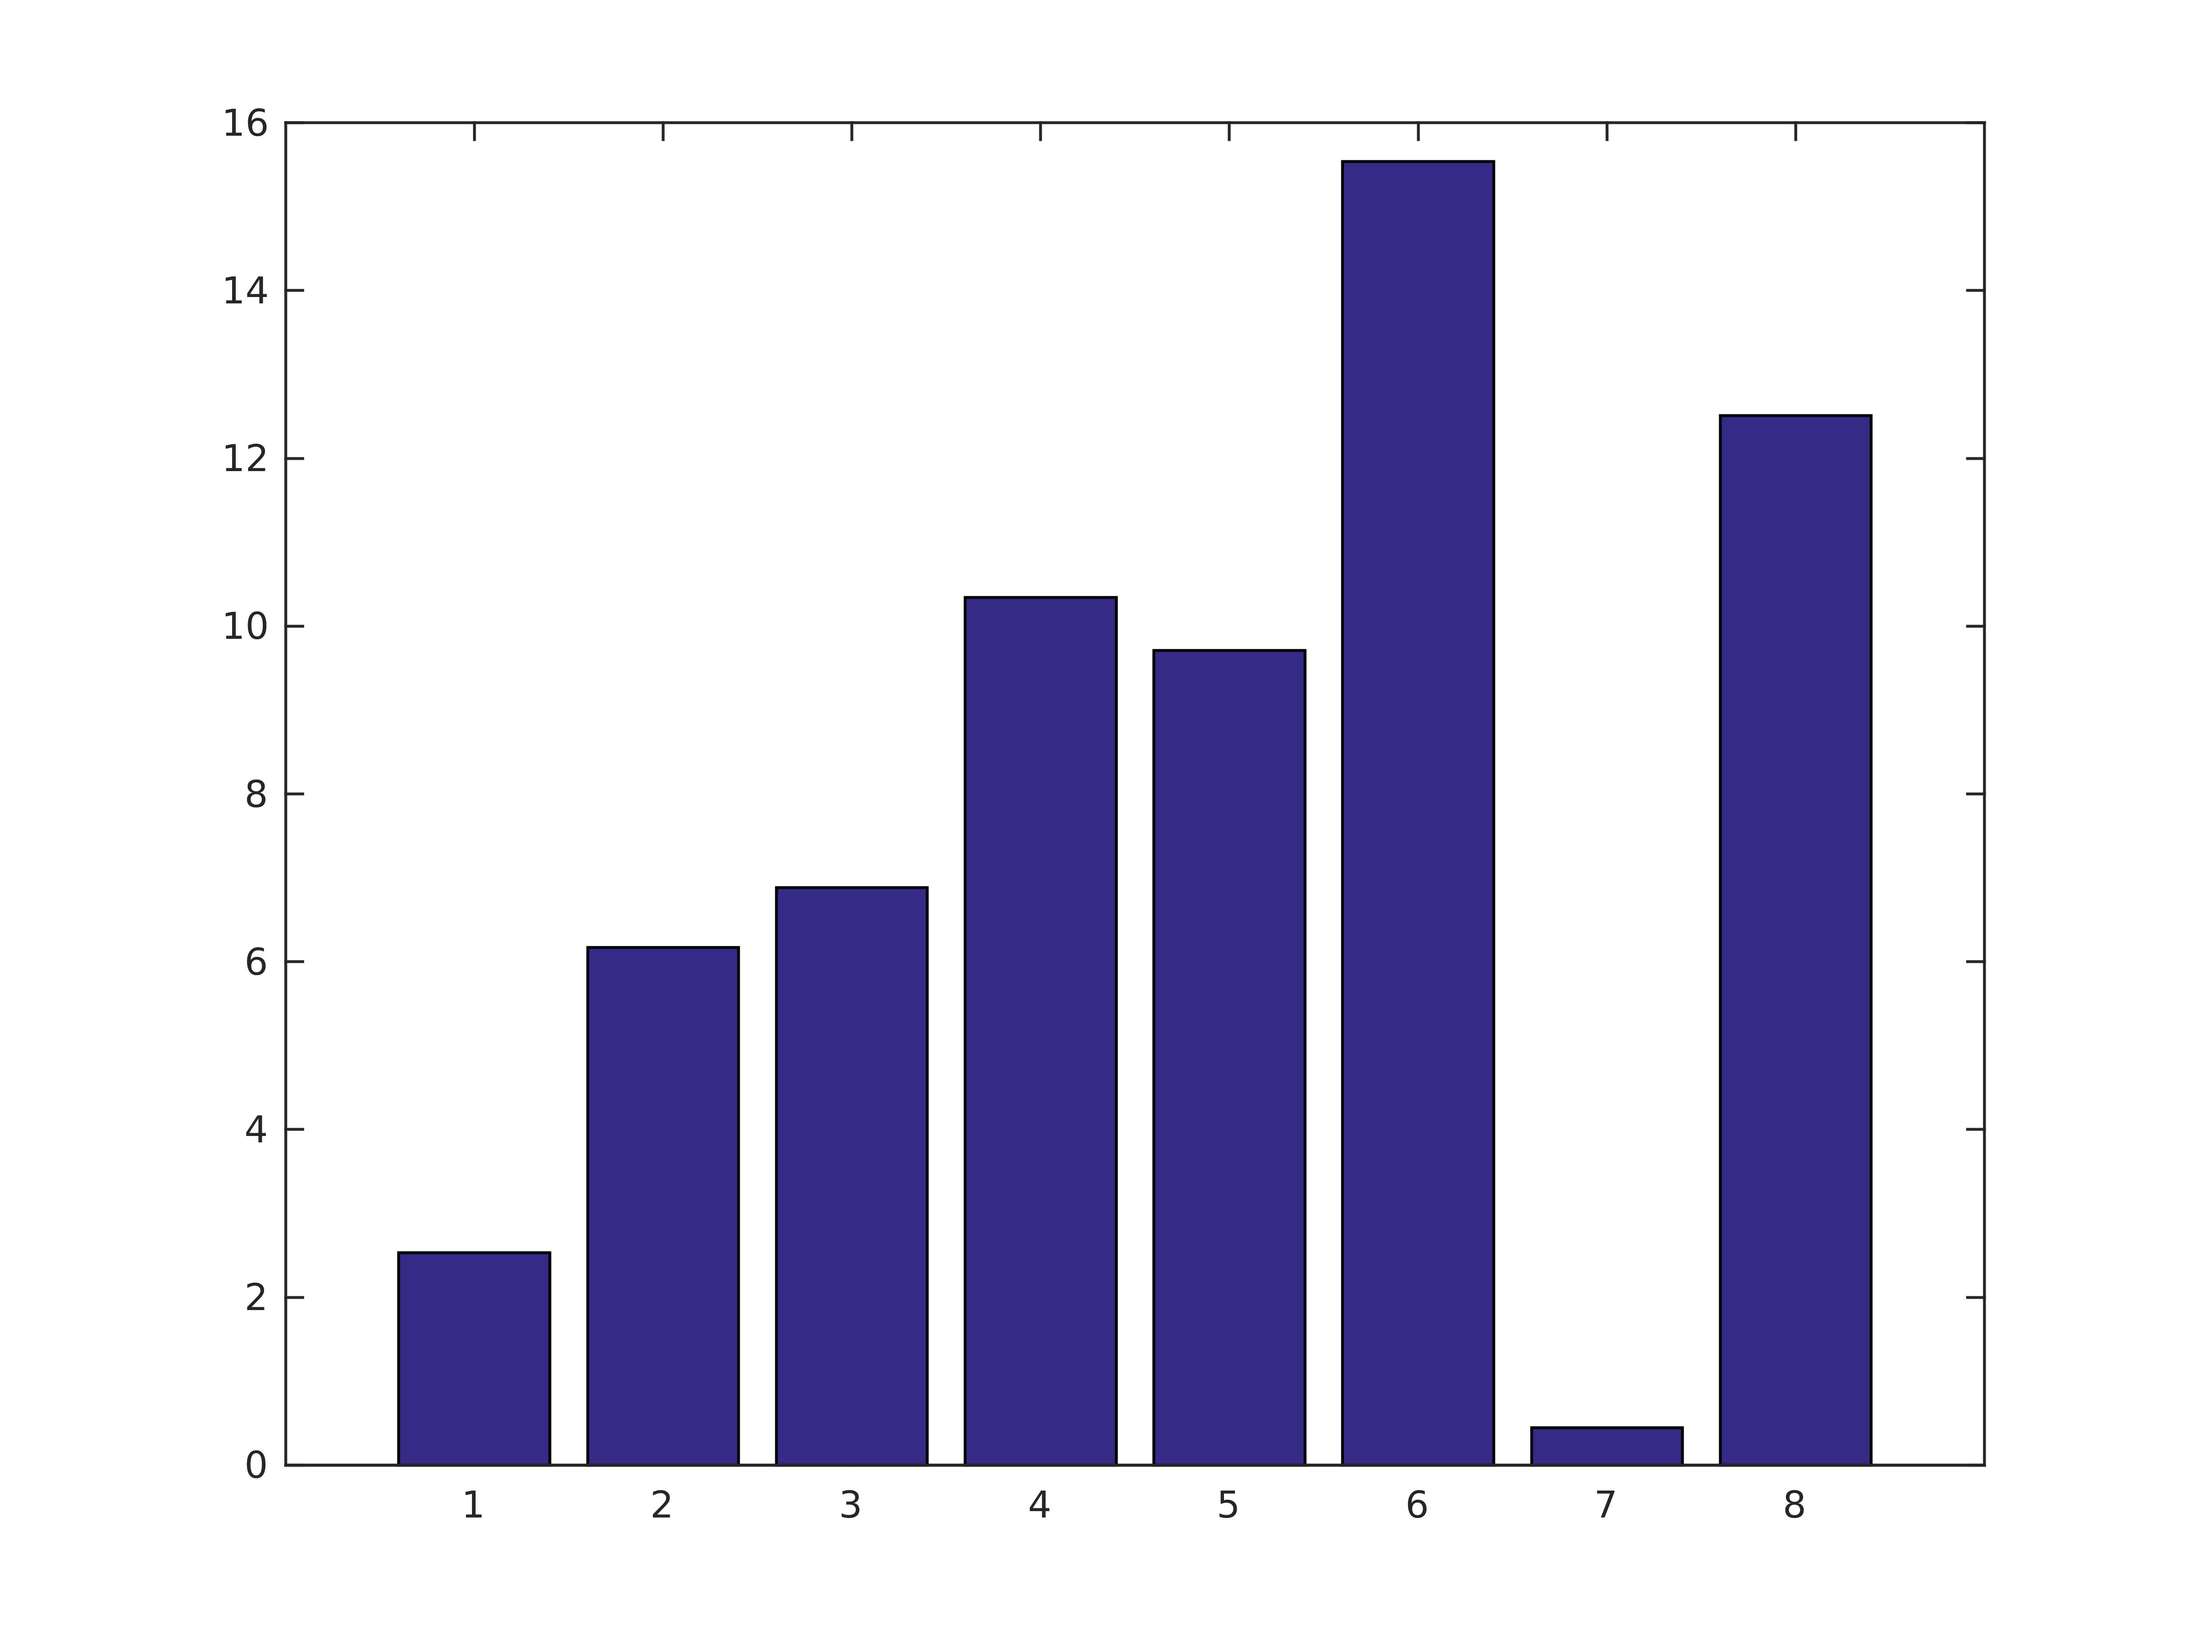
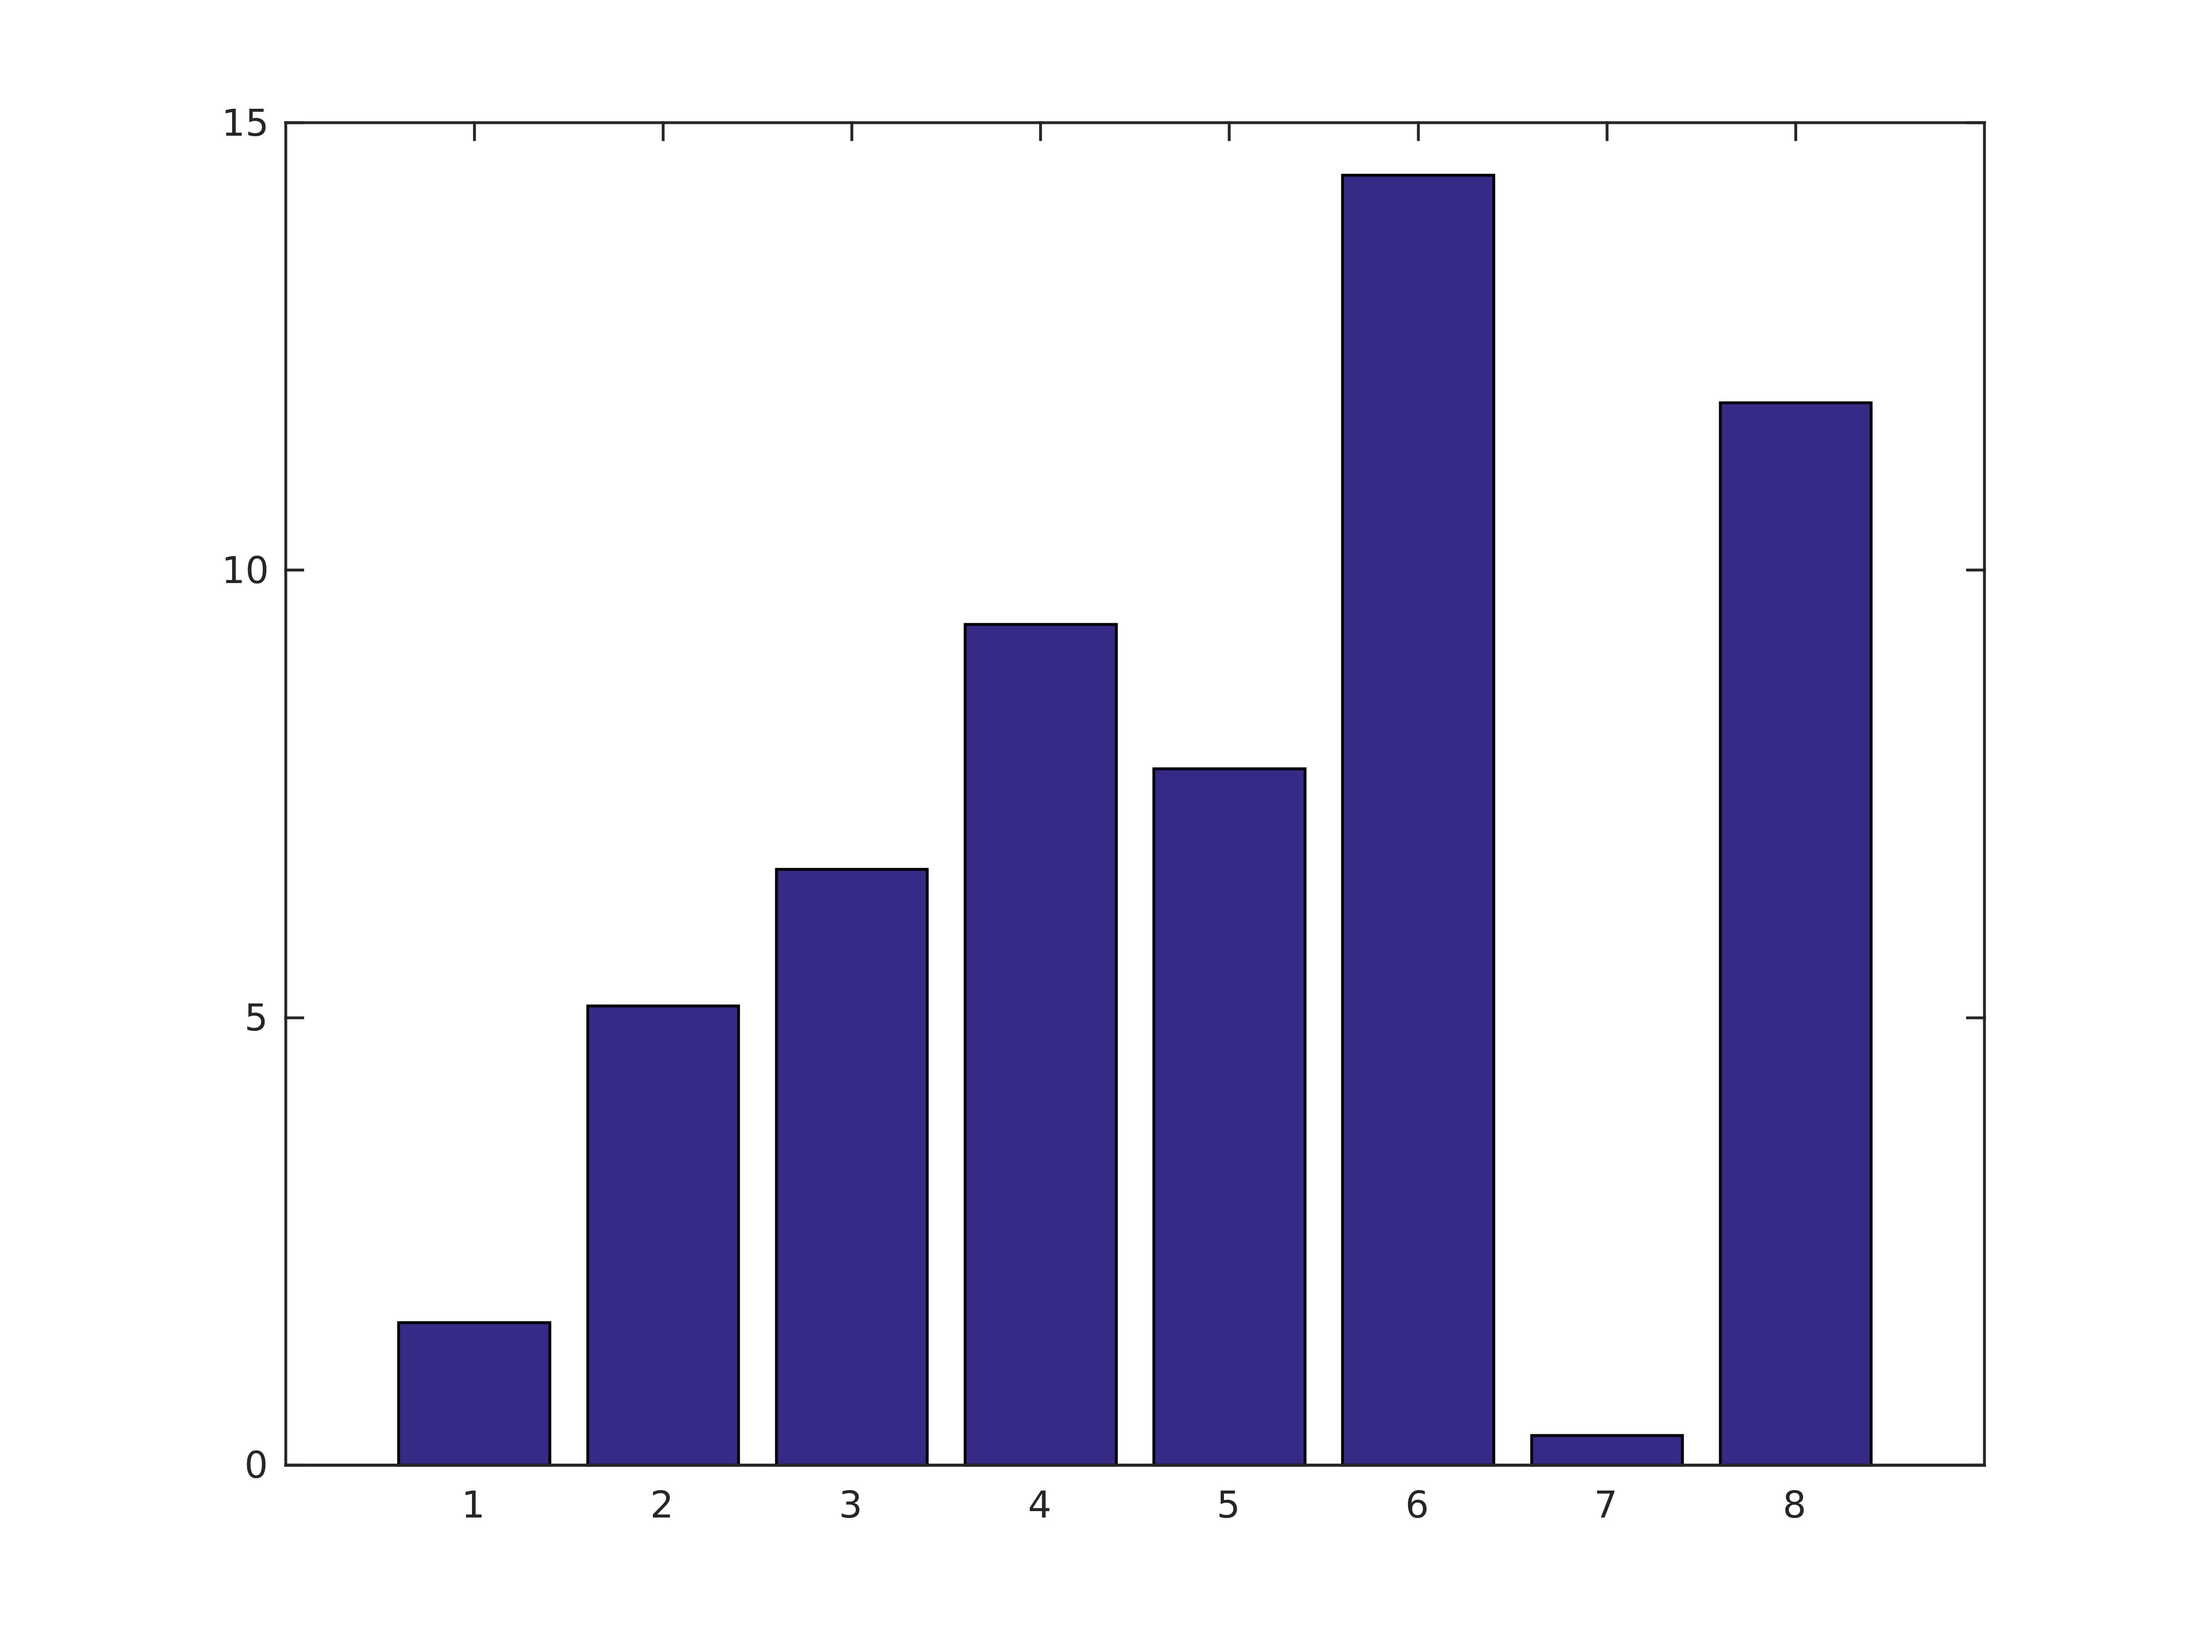
Correction in refractory time
The last version wasn't implemented with the refractory time accumulator.
New graphs were ploted.

diff --git a/rede_GL.cpp b/rede_GL.cpp
@@ -287,22 +287,30 @@ void runsim(double W, double g, double seed) {
 
 			n[j].syn_input[ind] = 0;
 			
-			if(n[j].v <= n[j].vth) {
-				prob = 0;
-			} else if(n[j].v > n[j].vth && n[j].v < n[j].vs) {
+
+			if(n[j].v >= n[j].vs) {
+				n[j].tdisp.push_back(i);
+				n[j].v = vr;
+				n[j].acum_ref = 0;
+
+				/* Adding synaptic inputs considering time delays between each pair of neurons connected*/
+				for (unsigned int p = 0; p < n[j].post.size(); p++){
+				    ind_postlist = n[j].post[p];
+				    n[ind_postlist].syn_input[(ind + n[j].delay[p])%(buffersize)]+=n[j].w[p];
+				}	
+			}else if(n[j].v > n[j].vth && n[j].v < n[j].vs) {
 				prob = pow(n[j].gamma*(n[j].v-n[j].vth), n[j].r) + n[j].delta;
-			} else if(n[j].v >= n[j].vs) {
-				prob = 1;
-			}
-			
-			if(randun()  < prob) {
-			    n[j].tdisp.push_back(i);
-			    n[j].v = vr;
-			    /* Adding synaptic inputs considering time delays between each pair of neurons connected*/
-			    for (unsigned int p = 0; p < n[j].post.size(); p++){
-				ind_postlist = n[j].post[p];
-				n[ind_postlist].syn_input[(ind + n[j].delay[p])%(buffersize)]+=n[j].w[p];
-			    }			    
+				if (randun() < prob) {
+				    n[j].tdisp.push_back(i);
+				    n[j].v = vr;
+    				    n[j].acum_ref = 0;
+
+				    /* Adding synaptic inputs considering time delays between each pair of neurons connected*/
+				    for (unsigned int p = 0; p < n[j].post.size(); p++){
+					ind_postlist = n[j].post[p];
+					n[ind_postlist].syn_input[(ind + n[j].delay[p])%(buffersize)]+=n[j].w[p];
+				    }
+				}
 			}
 		}
 	}
